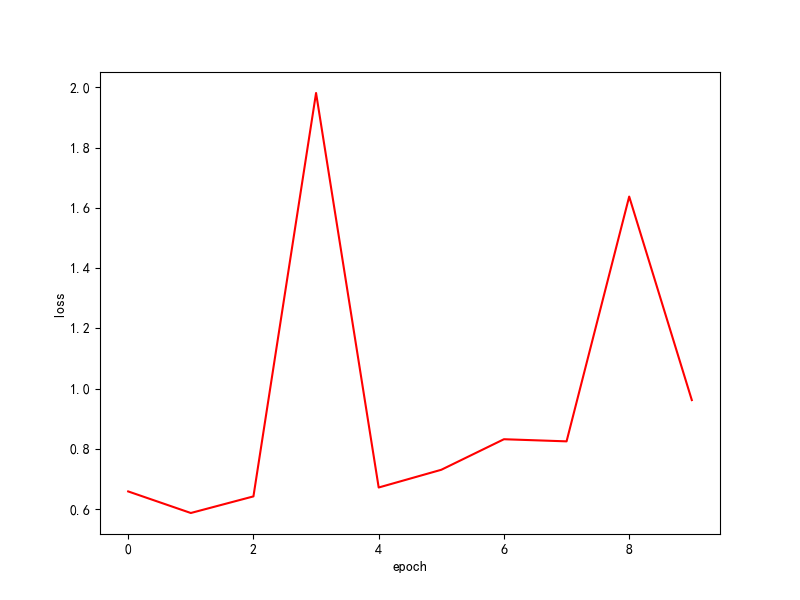
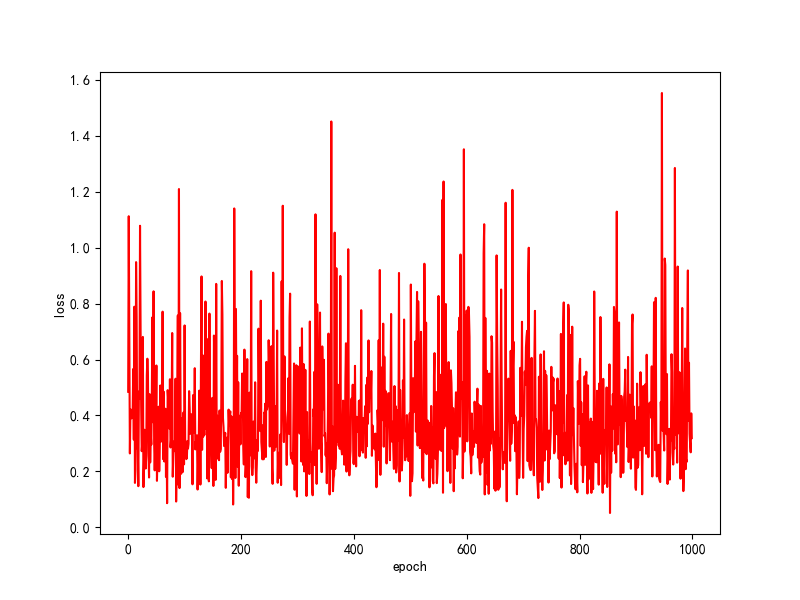
11/30

diff --git a/code/csdn_training.py b/code/csdn_training.py
@@ -8,8 +8,8 @@ import time
 
 feature_number = 3  # 设置特征数目
 out_prediction = 1  # 设置输出数目
-learning_rate = 0.00001  # 设置学习率0.00001
-epochs = 10 # 设置训练次数
+learning_rate = 0.001  # 设置学习率0.00001
+epochs = 1000 # 设置训练次数
 Myseed = 2022  # 设置随机种子分关键，不然每次划分的数据集都不一样，不利于结果复现
 
 plt.rcParams['font.sans-serif']=['SimHei'] #用来正常显示中文标签
@@ -43,88 +43,68 @@ Y = scaler.fit_transform(y_pd)                           # 标准化标签
 
 
 '''划分数据集'''
+import torch
 
-
-X = torch.tensor(X, dtype=torch.float32)  # 将数据集转换成torch能识别的格式
+X = torch.tensor(X, dtype=torch.float32) 
 Y = torch.tensor(Y, dtype=torch.float32)
 
-torch_dataset = torch.utils.data.TensorDataset(X, Y)  # 组成torch专门的数据库
-
-# 划分训练集测试集与验证集
-torch.manual_seed(seed=Myseed)  # 设置随机种子分关键，不然每次划分的数据集都不一样，不利于结果复现
-train_validaion, test = torch.utils.data.random_split(
-    torch_dataset,
-    [14448, 6192])  # 先将数据集拆分为训练集+验证集（共450组），测试集（56组） # hyd 总长度一定要与数据集中数字数据长度一致 14448+6192 = 20640
-train, validation = torch.utils.data.random_split(train_validaion, [14448, 0])  # 再将训练集+验证集拆分为训练集400，测试集50
-
-# 再将训练集划分批次，每batch_size个数据一批（测试集与验证集不划分批次）
-train_data = torch.utils.data.DataLoader(train,
-                                         batch_size=32,
-                                         shuffle=True)
+torch_dataset = torch.utils.data.TensorDataset(X, Y) 
+torch.manual_seed(seed=Myseed)  
+train, test = torch.utils.data.random_split(torch_dataset, [14448, 6192])
+train_data = torch.utils.data.DataLoader(train, batch_size=32, shuffle=True)
 
 '''训练部分'''
 
 
-
-
 class Model(torch.nn.Module):
-    def __init__(self, n_feature, n_output):  # n_feature为特征数目，这个数字不能随便取,n_output为特征对应的输出数目，也不能随便取
+    def __init__(self, n_feature, n_output): 
         self.n_feature = n_feature
         self.n_output = n_output
         super(Model, self).__init__()
-        self.input_layer = torch.nn.Linear(self.n_feature, 20)  # 输入层
-        self.hidden1 = torch.nn.Linear(20, 16)  # 1类隐藏层
-        self.hidden2 = torch.nn.Linear(16, 10)  # 2类隐藏
-        self.predict = torch.nn.Linear(10, self.n_output)  # 输出层
-        self.ReLU = torch.nn.ReLU()  # hyd 激活函数
+        self.input_layer = torch.nn.Linear(self.n_feature, 20)  
+        self.hidden1 = torch.nn.Linear(20, 16)  
+        self.hidden2 = torch.nn.Linear(16, 10)  
+        self.predict = torch.nn.Linear(10, self.n_output)  
+        self.ReLU = torch.nn.ReLU()  
 
     def forward(self, x):
-        '''定义前向传递过程'''
         out = self.ReLU(self.input_layer(x))
         out = self.ReLU(self.hidden1(out))
         out = self.ReLU(self.hidden2(out))
-        out = self.predict(out)  # 回归问题最后一层不需要激活函数
-        # 除去feature_number与out_prediction不能随便取，隐藏层数与其他神经元数目均可以适当调整以得到最佳预测效果
+        out = self.predict(out)  
         return out
 
 
-model = Model(n_feature=feature_number, n_output=out_prediction)  # 这里直接确定了隐藏层数目以及神经元数目，实际操作中需要遍历
+model = Model(n_feature=feature_number, n_output=out_prediction)  
 
+criterion = torch.nn.MSELoss(reduction='mean')  
 optimizer = torch.optim.SGD(model.parameters(), lr=learning_rate)
-criterion = torch.nn.MSELoss(reduction='mean')  # 误差计算公式，回归问题采用均方误差
+
 
 loss_array = []
-for epoch in range(epochs):  # 整个数据集迭代次数
+for epoch in range(epochs):  
     for batch_idx, (data, target) in enumerate(train_data):
-        logits = model(data)  # 前向计算结果（预测结果）
-        loss = criterion(logits, target)  # 计算损失
-        optimizer.zero_grad()  # 梯度清零
-        loss.backward()  # 后向传递过程
-        optimizer.step()  # 优化权重与偏差矩阵
+        pre = model(data)  
+        loss = criterion(pre, target) 
+        optimizer.zero_grad()  
+        loss.backward()  
+        optimizer.step()  
     print('epoch = ', epoch, 'loss = ', loss.item())
     loss_array.append(loss.item())
 
-
+ #  model.eval()  # 启动测试模式
 pre_array = []
 test_array = []
-model.eval()  # 启动测试模式
 for test_x, test_ys in test:
     pre = model(test_x)
-    print(pre.item())
     pre_array.append(pre.item())
     test_array.append(test_ys.item())
 
-
-# 可视化
 plt.figure()
-plt.scatter(test_array, pre_array, color='blue', alpha=1/7)
-#plt.plot([0, 52], [0, 52], color='black', linestyle='-')
-# plt.xlim([-0.05, 52])
-# plt.ylim([-0.05, 52])
+plt.scatter(test_array, pre_array, color='red', alpha=1/7)
 plt.xlabel('true')
 plt.ylabel('prediction')
-plt.title('true vs prection')
-
+plt.title('true vs prediction')
 
 
 
@@ -138,49 +118,6 @@ ax.set_ylabel('loss')
 fig.savefig('fig.png')
 plt.show()
 
-
-
-    # logit = []  # 这个是验证集，可以根据验证集的结果进行调参，这里根据验证集的结果选取最优的神经网络层数与神经元数目
-    # target = []
-    # model.eval()  # 启动测试模式
-    # for data, targets in validation:  # 输出验证集的平均误差
-    #     logits = model.forward(data).detach().numpy()
-    #     targets = targets.detach().numpy()  # hyd .detach()返回一个new Tensor，只不过不再有梯度,再加.numpy()转化为numpy的格式
-    #     target.append(targets[0])
-    #     logit.append(logits[0])
-    # average_loss = criteon(torch.tensor(logit), torch.tensor(target))
-    # print(f'\nTrain Epoch:{epoch} for the Average loss of VAL')
-
-####################### 3 测试模型及可视化##############################
-
-
-#
-# prediction = []
-# test_y = []
-# model.eval()  # 启动测试模式
-# for test_x, test_ys in test:
-#     predictions = model(test_x)
-#     predictions = predictions.detach().numpy()
-#     prediction.append(predictions[0])
-#     test_ys.detach().numpy()
-#     test_y.append(test_ys[0])
-# prediction = scaler.inverse_transform(np.array(prediction).reshape(
-#     -1, 1))  # 将数据恢复至归一化之前
-# test_y = scaler.inverse_transform(np.array(test_y).reshape(-1, 1))
-# # 均方误差计算
-# test_loss = criterion(torch.tensor(prediction, dtype=torch.float32), torch.tensor(test_y, dtype=torch.float32))
-# print('测试集均方误差：', test_loss.detach().numpy())
-#
-# # 可视化
-# plt.figure()
-# plt.scatter(test_y, prediction, color='red')
-# plt.plot([0, 52], [0, 52], color='black', linestyle='-')
-# plt.xlim([-0.05, 52])
-# plt.ylim([-0.05, 52])
-# plt.xlabel('true')
-# plt.ylabel('prediction')
-# plt.title('true vs prection')
-# plt.show()
 
 
 

diff --git a/code/multiple_regression_sk.py b/code/multiple_regression_sk.py
@@ -14,8 +14,8 @@ plt.rcParams['axes.unicode_minus'] = False  # 用来正常显示负号
 # y是二次方程
 x = np.linspace(-3, 3, 100)
 X = x.reshape(-1, 1)
-y = 0.3 * x ** 2 + 2 * x + 1 + np.random.normal(0, 1, size=100)  # 正态分布的均值，正态分布的标准差
-print('x= ', x)
+y = 3 * x ** 2 + 2 * x + 1 + np.random.normal(0, 1, size=100)  # 正态分布的均值，正态分布的标准差
+# 或 3
 
 fig, ax = plt.subplots(figsize=(8, 6))
 ax.scatter(x, y)
@@ -24,9 +24,9 @@ plt.show()
 
 
 # 实例化线性模型
-lr = LinearRegression()
-lr.fit(X, y)
-y_predict1 = lr.predict(X)
+LinearModel = LinearRegression()
+LinearModel.fit(X, y)
+y_predict1 = LinearModel.predict(X)
 
 fig, ax = plt.subplots(figsize=(8, 6))
 ax.scatter(x, y)
@@ -34,20 +34,20 @@ ax.set_title('线性回归', fontsize=18)
 ax.plot(x, y_predict1,'r')
 plt.show()
 
-
+from sklearn.linear_model import LinearRegression
+from sklearn.preprocessing import PolynomialFeatures
 
 poly = PolynomialFeatures(degree=2)
-# degree=2 生成2次特征，可以调整
-
 poly.fit(X)
 X2 = poly.transform(X)
 
-print('X2 shape ', X2.shape)
-print(X2[0:5, :])
+LinearModel.fit(X2, y)
+y_predict2 = LinearModel.predict(X2)
 
-# 继续使用线性模型
-lr.fit(X2, y)
-y_predict2 = lr.predict(X2)
+print('X = ', X)
+print('X shape ', X.shape)
+print('X2 shape ', X2.shape)
+print('X2 = ', X2[0:5, :])
 
 fig, ax = plt.subplots(figsize=(8, 6))
 ax.scatter(x, y)
